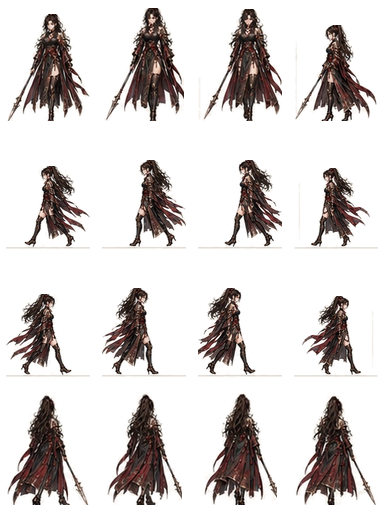
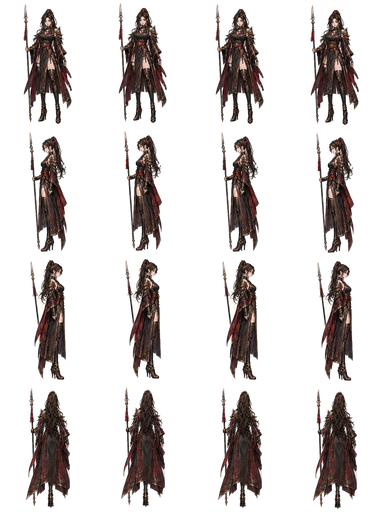
patch

diff --git a/index.html b/index.html
@@ -11,15 +11,15 @@
 <meta name="referrer" content="no-referrer"/>
 <link href="manifest.webmanifest" rel="manifest"/>
 <link href="assets/icons/icon-192.png" rel="apple-touch-icon"/>
-<title>천하생존록 v14.3.21 · End Fix & Game Speed</title>
+<title>천하생존록 v14.3.20 · Source Extracted Characters</title>
 
-<link href="css/base.css" rel="stylesheet"/><link href="css/systems.css" rel="stylesheet"/><link href="css/remaster.css" rel="stylesheet"/><link href="css/mobile.css" rel="stylesheet"/><link href="css/animation-pass.css" rel="stylesheet"/><link href="css/awakening-cutscene.css" rel="stylesheet"/><link href="css/forge-v13.css" rel="stylesheet"/><link href="css/v14-improvements.css" rel="stylesheet"/><link href="css/audio-mixer-v14-3-3.css" rel="stylesheet"/><meta content="v14.3.21-end-speed-fix" name="game-build"/></head>
+<link href="css/base.css" rel="stylesheet"/><link href="css/systems.css" rel="stylesheet"/><link href="css/remaster.css" rel="stylesheet"/><link href="css/mobile.css" rel="stylesheet"/><link href="css/animation-pass.css" rel="stylesheet"/><link href="css/awakening-cutscene.css" rel="stylesheet"/><link href="css/forge-v13.css" rel="stylesheet"/><link href="css/v14-improvements.css" rel="stylesheet"/><link href="css/audio-mixer-v14-3-3.css" rel="stylesheet"/><meta content="v14.3.20-baek-yeon-source" name="game-build"/></head>
 <body>
 <div id="assetLoader" role="status" aria-live="polite"><div class="asset-loader-card"><b>강호를 불러오는 중</b><div id="assetLoaderText" class="settings-note">필수 에셋 확인 중…</div><div class="asset-loader-bar"><span id="assetLoaderFill"></span></div></div></div>
 <div id="systemToast" role="status" aria-live="polite"></div>
 <div id="hiddenProgressHud" aria-live="polite"></div><div id="skillLearnToast" aria-live="polite"><span>신규 무공 습득</span><b>무공</b></div>
 <canvas aria-label="무협 서바이버 게임 화면" id="game"></canvas>
-<div id="hud"><div class="top"><div class="status"><div class="hline"><b class="weapon-label" id="weaponHud">무기 미선택</b><b id="levelText">경지 1</b><span id="timeText">00:00</span><span id="killText">격파 0</span></div><div class="bar"><span id="hpFill"></span></div><div style="height:5px"></div><div class="bar"><span id="xpFill"></span></div><div class="hline" style="margin:5px 0 0"><span id="goldHud">금자 0</span><span id="oreHud">광석 0</span><span id="dodgeHud">보법 준비</span></div><div id="bossWrap"><div class="hline" style="margin:5px 0 3px"><b>혈마</b><span id="bossText"></span></div><div class="bar"><span id="bossFill"></span></div></div></div><div class="hbuttons"><button aria-label="소리 음소거" aria-pressed="false" class="iconbtn" id="soundBtn" type="button">🔊</button><button aria-label="게임 음량 조절" aria-expanded="false" aria-controls="audioQuickPanel" class="iconbtn" id="audioPanelBtn" type="button">🎚</button><button aria-label="게임 속도 1배" class="iconbtn speed-btn" id="speedBtn" title="게임 속도 1배" type="button">1×</button><button aria-label="일시정지" class="iconbtn" id="pauseBtn" type="button">Ⅱ</button></div></div><div id="message"></div></div>
+<div id="hud"><div class="top"><div class="status"><div class="hline"><b class="weapon-label" id="weaponHud">무기 미선택</b><b id="levelText">경지 1</b><span id="timeText">00:00</span><span id="killText">격파 0</span></div><div class="bar"><span id="hpFill"></span></div><div style="height:5px"></div><div class="bar"><span id="xpFill"></span></div><div class="hline" style="margin:5px 0 0"><span id="goldHud">금자 0</span><span id="oreHud">광석 0</span><span id="dodgeHud">보법 준비</span></div><div id="bossWrap"><div class="hline" style="margin:5px 0 3px"><b>혈마</b><span id="bossText"></span></div><div class="bar"><span id="bossFill"></span></div></div></div><div class="hbuttons"><button aria-label="소리 음소거" aria-pressed="false" class="iconbtn" id="soundBtn" type="button">🔊</button><button aria-label="게임 음량 조절" aria-expanded="false" aria-controls="audioQuickPanel" class="iconbtn" id="audioPanelBtn" type="button">🎚</button><button aria-label="일시정지" class="iconbtn" id="pauseBtn" type="button">Ⅱ</button></div></div><div id="message"></div></div>
 <aside id="audioQuickPanel" class="audio-quick-panel" aria-hidden="true" aria-label="게임 음량 조절">
 <div class="audio-quick-head"><b>음량 조절</b><button id="audioPanelClose" type="button" aria-label="음량 조절 닫기">×</button></div>
 <label>Master <output id="quickMasterVolumeValue">80%</output><input id="quickMasterVolume" type="range" min="0" max="100" step="1" value="80"/></label>

diff --git a/service-worker.js b/service-worker.js
@@ -1,7 +1,7 @@
 "use strict";
 
-/** v14.3.21 종료 조건·배속 기능 오프라인 캐시. 대용량 BGM은 스트리밍하고 SFX는 최초 사용 뒤 캐시한다. */
-const CACHE="cheonha-v14-3-21-end-speed-fix";
+/** v14.3.22 종료 조건·배속 기능 오프라인 캐시. 대용량 BGM은 스트리밍하고 SFX는 최초 사용 뒤 캐시한다. */
+const CACHE="cheonha-v14-3-22-end-speed-fix";
 const APP_SHELL=[
   "./","index.html","manifest.webmanifest",
   "css/base.css","css/systems.css","css/remaster.css","css/mobile.css","css/animation-pass.css","css/awakening-cutscene.css","css/forge-v13.css","css/v14-improvements.css","css/audio-mixer-v14-3-3.css",

diff --git a/js/core/asset-loader.js b/js/core/asset-loader.js
@@ -8,7 +8,7 @@
  * 코드 생성 캐릭터로 되돌아가는 상황을 막기 위해 모든 시스템이 같은 Image 객체를 공유한다.
  */
 const GameAssets=(()=>{
-  const BUILD="v14.3.21-end-speed-fix";
+  const BUILD="v14.3.22-end-speed-fix";
   const characterIds=["sword","spear","bow","poison","tao","saber","katana","fist"];
   const enemyIds=["bandit","spear","brute","master","assassin","blackblade","ironmonk","poisonhand","boss"];
   const vfxFiles=[

diff --git a/README.md b/README.md
@@ -1,4 +1,4 @@
-# 천하생존록 v14.3.21 · 종료 조건 수정 및 배속 기능
+# 천하생존록 v14.3.20 · 백소린·연하진 원본 추출 적용
 
 브라우저와 GitHub Pages에서 실행되는 HTML5 Canvas 기반 무협 서바이버 게임이다. 별도 서버 프로그램이나 빌드 도구 없이 저장소 루트의 `index.html`을 배포하면 실행된다.
 
@@ -201,11 +201,3 @@ tests/         정적 검사, VFX 검사, 부팅·전투 스모크 테스트
 
 ## v14.3.20 카구라 린 에셋 적용
 - 제공된 96×128 GAME ASSET의 16프레임을 투명 PNG로 정리해 카타나 캐릭터에 적용했습니다.
-
-
-## v14.3.21 종료 조건 수정 및 배속 기능
-- 혈마 처치 시 지연 타이머에 의존하지 않고 즉시 승리 결과 화면으로 전환합니다.
-- 제한시간이 끝나면 혈마 객체 존재 여부와 관계없이 패배 결과 화면으로 전환합니다.
-- HUD에 1× / 1.5× / 2× / 3× 순환 배속 버튼을 추가했습니다.
-- 배속은 이동, 공격, 적, 쿨다운, 제한시간 등 전투 시뮬레이션 전체에 동일하게 적용됩니다.
-- 선택한 배속은 계정 설정에 저장됩니다.

diff --git a/PATCH_V14_3_22_YEON_HAJIN_STABLE_SPRITE_KO.md b/PATCH_V14_3_22_YEON_HAJIN_STABLE_SPRITE_KO.md
@@ -1,0 +1,7 @@
+# v14.3.22 연하진 스프라이트 안정화
+
+- 손상된 하단 보행칸 추출본을 제거했습니다.
+- 상단 턴어라운드의 온전한 FRONT/BACK/LEFT/RIGHT 원본을 사용했습니다.
+- 프레임당 96x128, 4x4, DOWN/LEFT/RIGHT/UP 순서입니다.
+- 창, 발끝, 옷자락이 잘리지 않도록 전체 실루엣을 보존했습니다.
+- 4프레임은 미세한 상하/좌우 보빙으로 구성해 방향 전환과 이동 시 안정성을 우선했습니다.
